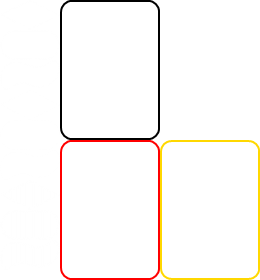
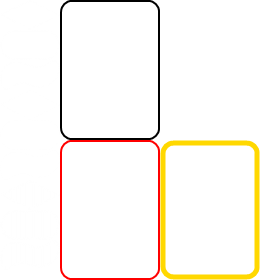
Added a test HighlightSpot and adjusted the image of the HighlightSpot to be more visible.

Changed region(s): [[0.6154, 0.4857, 1.0, 1.0]]

diff --git a/SetGame/Table.cpp b/SetGame/Table.cpp
@@ -47,6 +47,13 @@ Table::Table(Gaza::FrameSheetCollection * cardSprites, Gaza::Application * appli
 		emptySpots[i] = currentEmptySpot;
 		sprites.push_back(currentEmptySpot);
 	}
+
+	HighlightSpot * highlightSpot;
+
+	highlightSpot = new HighlightSpot(cardSprites);
+	highlightSpot->setFrameRate(30);
+	highlightSpot->SetPosition(5, 5);
+	sprites.insert(sprites.end(), highlightSpot);
 }
 
 Table::~Table()

diff --git a/SetGame/Application.cpp b/SetGame/Application.cpp
@@ -14,8 +14,6 @@ Application::Application()
 	cardFrames = generator.generate();
 
 	changeState(new GameState(this, cardFrames));
-
-	getRenderWindow()->SetFramerateLimit(60);
 }
 
 Application::~Application()
